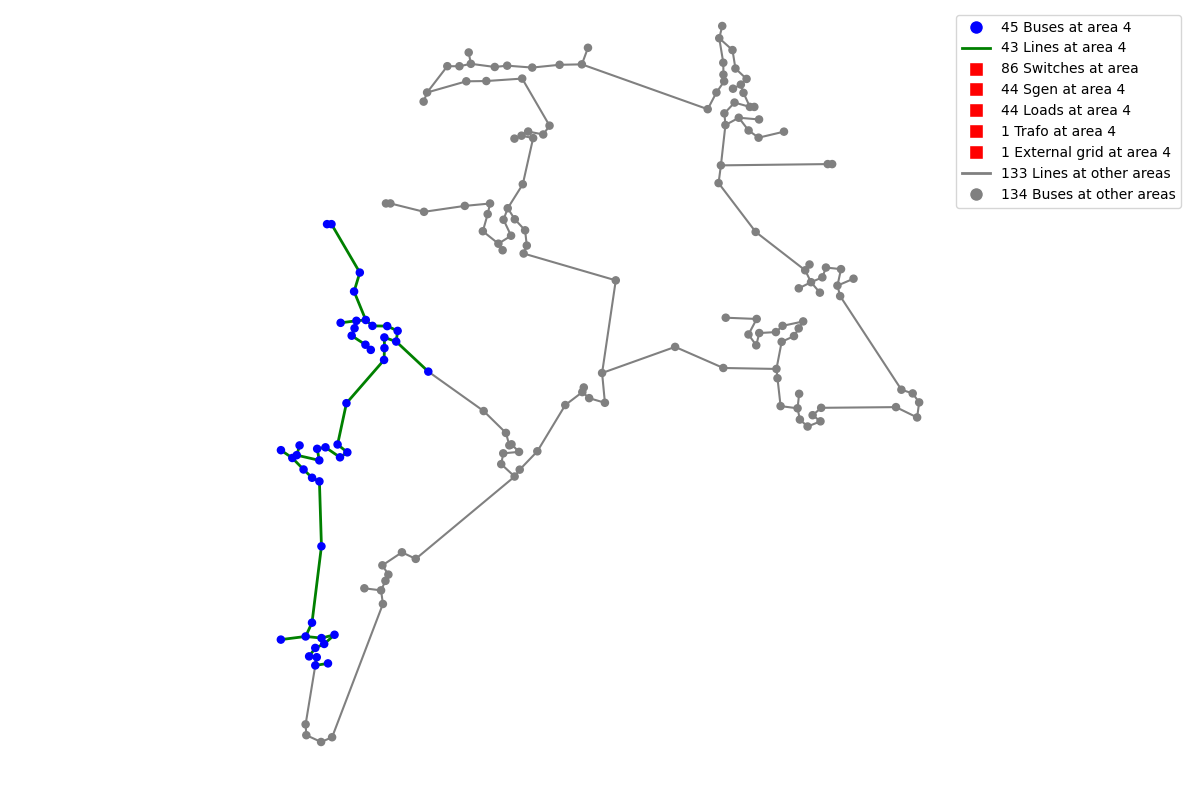
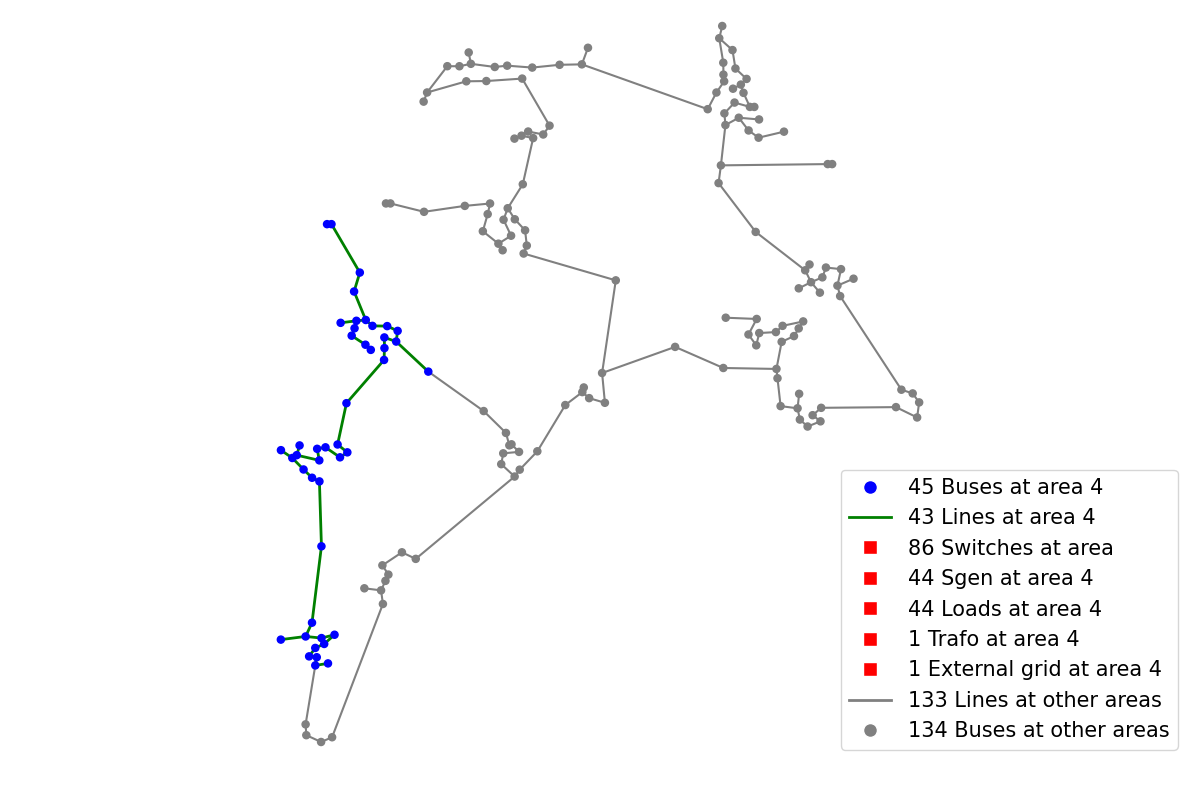
change the legend font size

Changed region(s): [[0.7092, 0.5938, 0.9867, 0.9375], [0.8017, 0.0312, 0.9867, 0.25], [0.7092, 0.9062, 0.74, 0.9375]]

diff --git a/exercises/abdalrhman/exercise_4/exercise_4_I_1.py b/exercises/abdalrhman/exercise_4/exercise_4_I_1.py
@@ -102,7 +102,7 @@ legend_handles = [plt.Line2D([0], [0], marker='o', color='w', markerfacecolor='b
 
 
 
-plt.legend(legend_handles, legend_labels, loc='upper right')
+plt.legend(legend_handles, legend_labels, loc='lower right',fontsize=15)
 
 
 plt.show()
